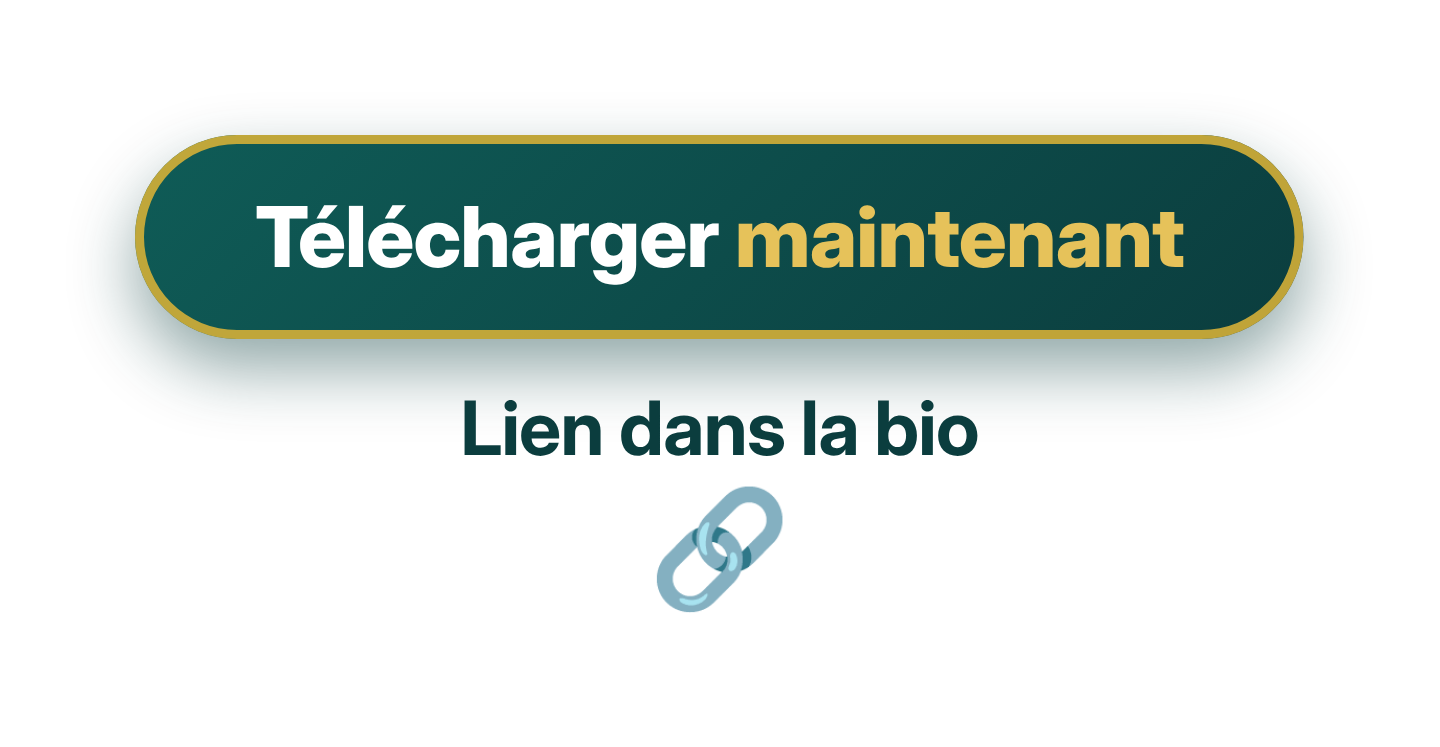
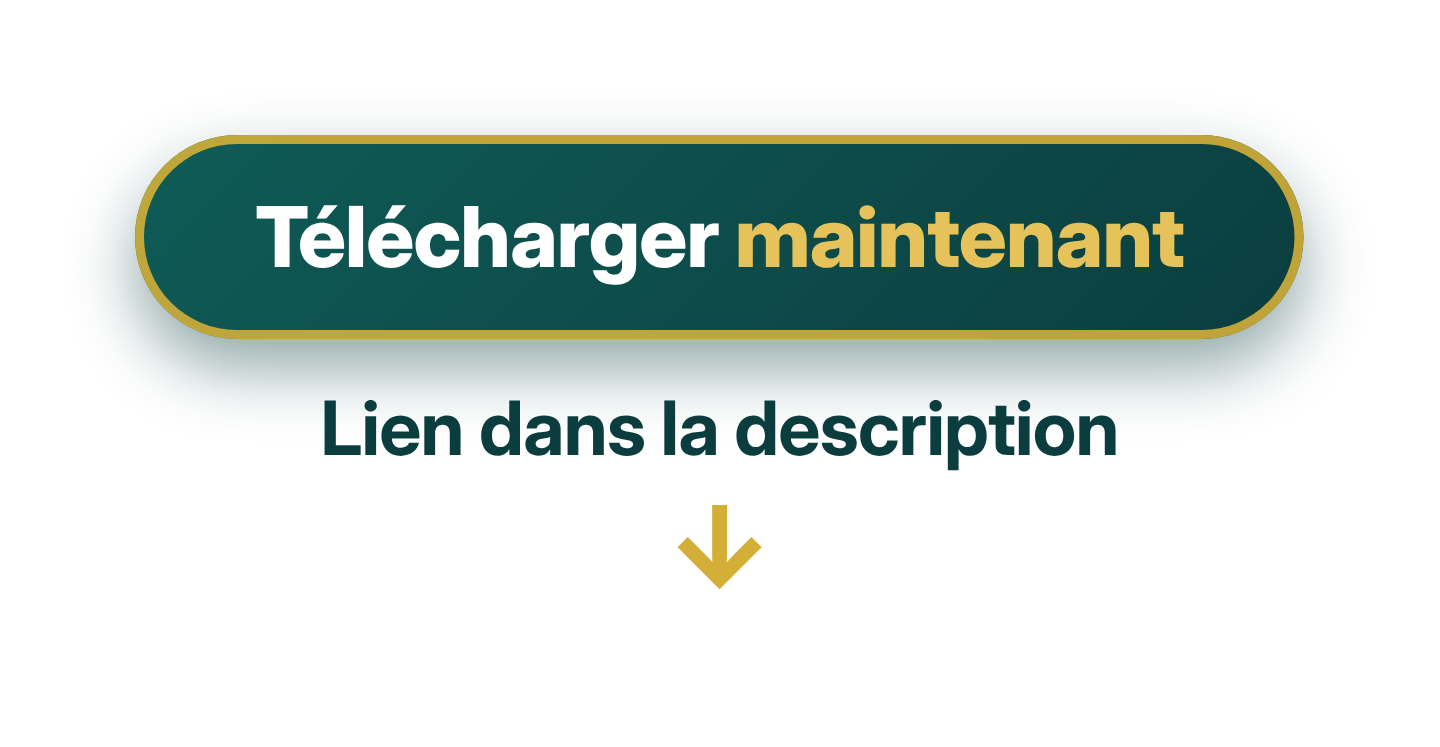
fix(s8): use bouton_facebook.png with 'Lien dans la description' text

Changed region(s): [[0.2188, 0.5234, 0.7812, 0.6466], [0.4375, 0.6466, 0.5625, 0.8313]]

diff --git a/src/scwb/scenes/Scene8.tsx b/src/scwb/scenes/Scene8.tsx
@@ -83,7 +83,7 @@ export const Scene8: React.FC<Scene8Props> = ({
         }}
       >
         <Img
-          src={staticFile("scwb/produit/bouton_achat.png")}
+          src={staticFile(`scwb/boutons/bouton_${platform}.png`)}
           style={{ width: "100%", height: "auto", display: "block" }}
         />
       </div>
